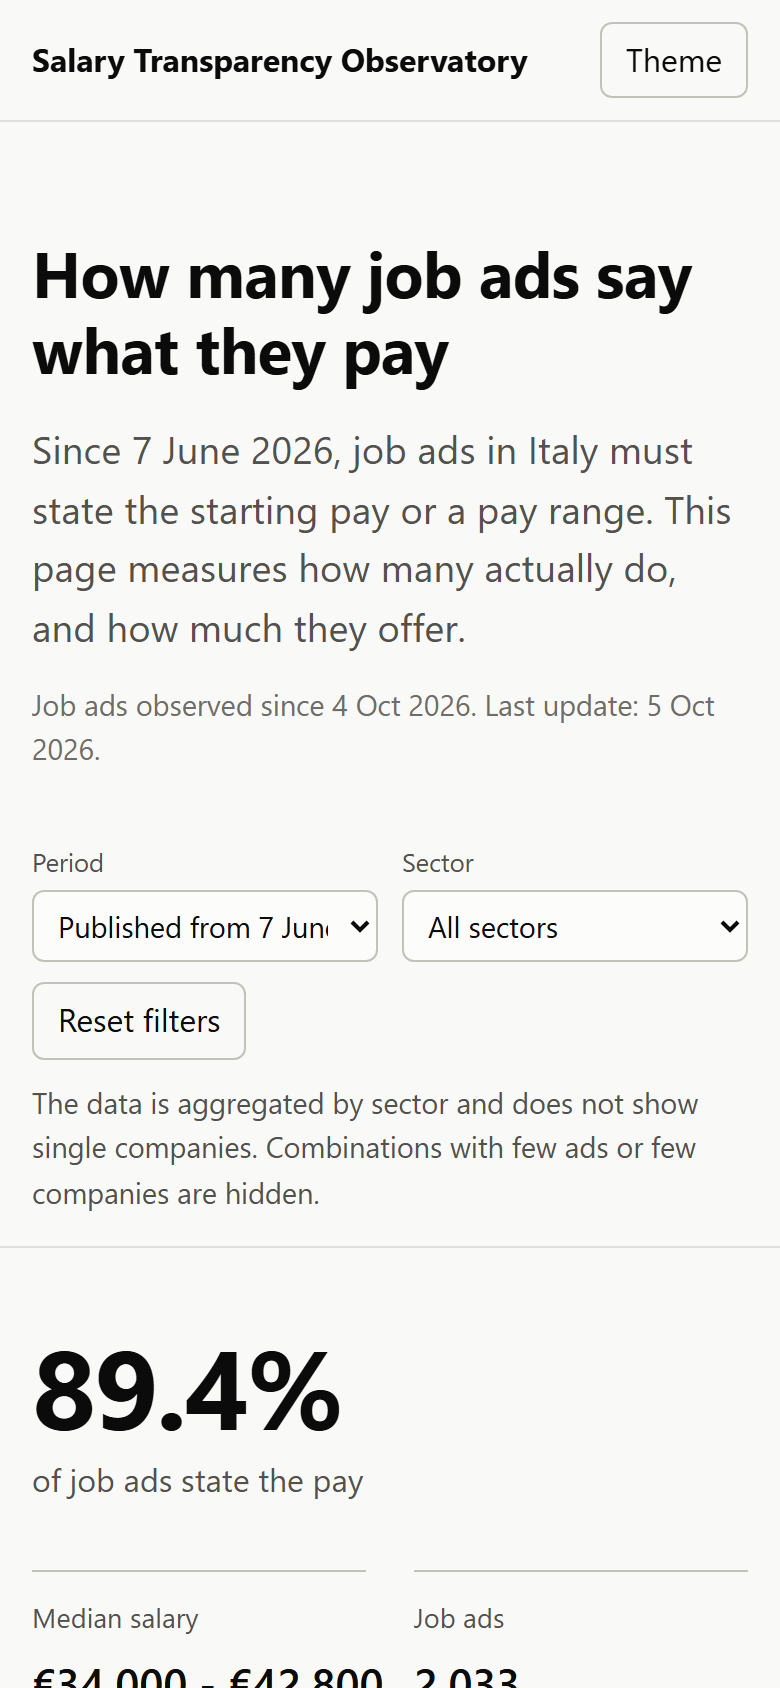
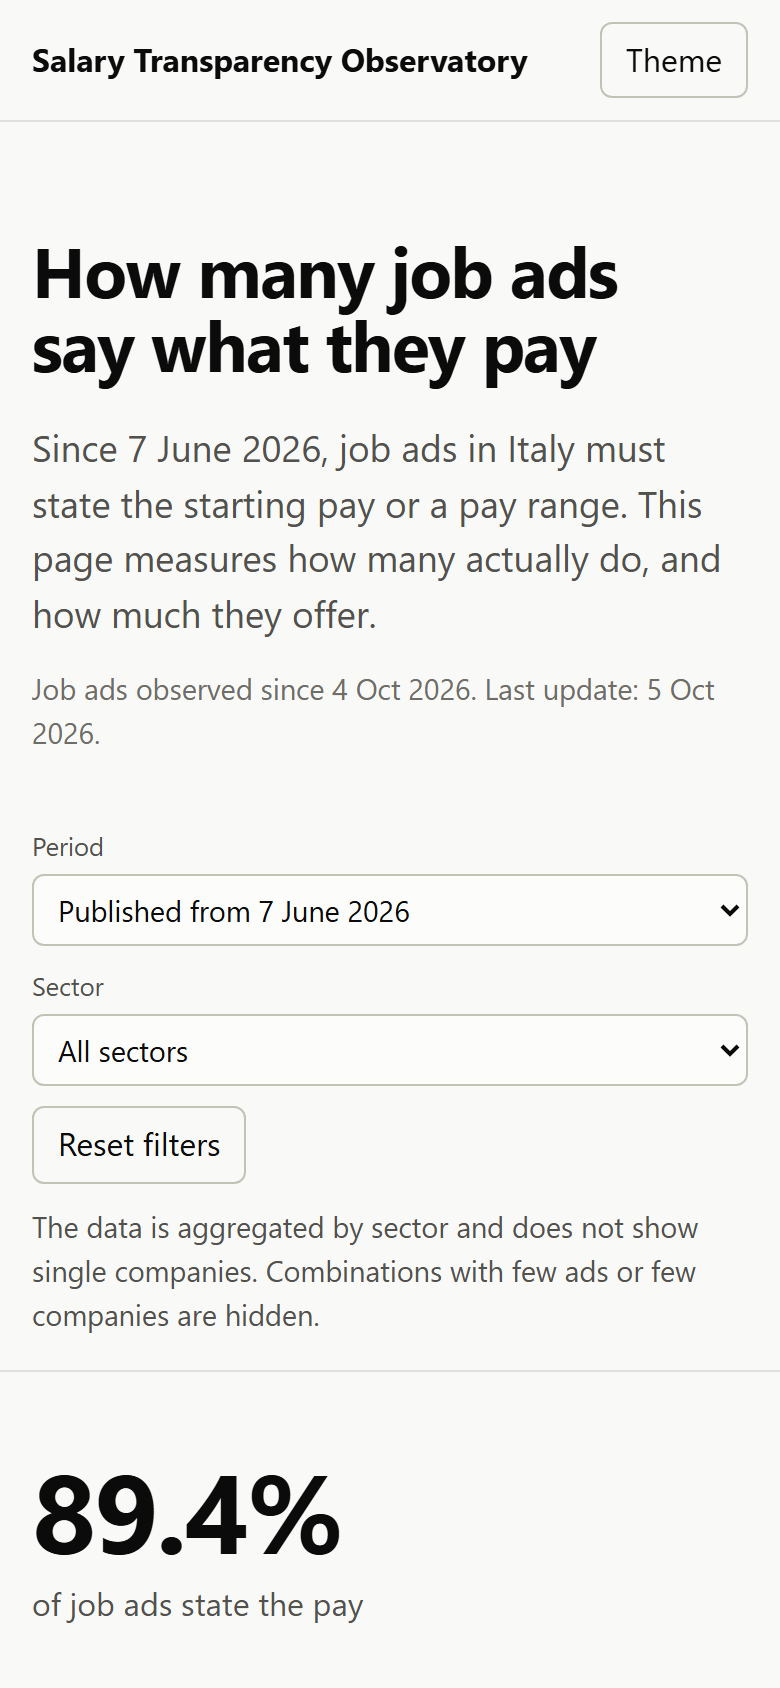
stacked charts

diff --git a/webapp/style.css b/webapp/style.css
@@ -68,7 +68,9 @@ body {
 
 a { color: var(--accent-ink); text-underline-offset: 2px; }
 h1, h2, h3 { line-height: 1.2; margin: 0; letter-spacing: -0.01em; }
-h1 { font-size: clamp(2rem, 3.6vw, 3.6rem); font-weight: 650; max-width: 18ch; }
+/* display title: tight tracking and leading; balance keeps the lines even when it wraps */
+h1 { font-size: clamp(2.2rem, 4.2vw, 4.4rem); font-weight: 680; line-height: 1.04; letter-spacing: -0.025em;
+     text-wrap: balance; }
 h2 { font-size: 1.25rem; font-weight: 620; }
 h3 { font-size: 1rem; font-weight: 620; margin-top: 1.25rem; }
 p { margin: 0; }
@@ -107,13 +109,9 @@ button:focus-visible, select:focus-visible, input:focus-visible, a:focus-visible
 
 /* intro */
 .intro { padding-top: 56px; padding-bottom: 24px; }
-.lede { margin-top: 16px; font-size: 1.2rem; color: var(--ink-2); max-width: 64ch; }
-/* wide screens: title on the left, intro text on the right, so the top uses the full width */
-@media (min-width: 1100px) {
-  .intro { display: grid; grid-template-columns: minmax(0, 1.15fr) minmax(0, 1fr); column-gap: 64px; align-items: end; }
-  .intro h1 { grid-row: span 2; }
-  .intro .lede { margin-top: 0; }
-}
+/* subtitle under the title: grows with the screen, line length capped at ~65 characters for reading */
+.lede { margin-top: 20px; font-size: clamp(1.15rem, 0.5vw + 0.95rem, 1.4rem); line-height: 1.5;
+        color: var(--ink-2); max-width: 65ch; text-wrap: pretty; }
 .stamp { margin-top: 12px; color: var(--muted); font-size: 0.9rem; }
 
 /* filters: one row above everything they filter */
@@ -128,7 +126,7 @@ button:focus-visible, select:focus-visible, input:focus-visible, a:focus-visible
 #filters input { width: 100%; max-width: none; }
 #filters input::placeholder { color: var(--muted); }
 @media (max-width: 767px) {
-  #filters label { flex: 1 1 45%; }
+  #filters label { flex: 1 1 100%; }   /* one filter per row: option text is never cut */
   #filters select { max-width: none; width: 100%; }
 }
 
@@ -157,8 +155,9 @@ button:focus-visible, select:focus-visible, input:focus-visible, a:focus-visible
 .error { color: var(--ink); background: var(--surface); border: 1px solid var(--axis); border-radius: var(--radius); }
 
 /* charts */
-.charts { display: grid; grid-template-columns: repeat(2, minmax(0, 1fr)); gap: 48px 40px; padding-bottom: 24px; }
-@media (max-width: 900px) { .charts { grid-template-columns: 1fr; } }
+/* charts stacked one under the other; every chart shares the same label column and the same
+   right gutter for the tip value, so all plot areas and axes line up vertically */
+.charts { --label-w: 15rem; --tip: 64px; display: grid; grid-template-columns: minmax(0, 1fr); gap: 64px; padding-bottom: 24px; }
 .chart { margin: 0; min-width: 0; }
 .chart figcaption p { margin-top: 4px; color: var(--ink-2); font-size: 0.9rem; max-width: 72ch; }
 .chart-body { margin-top: 16px; }
@@ -172,16 +171,17 @@ button:focus-visible, select:focus-visible, input:focus-visible, a:focus-visible
 /* horizontal bars: label | plot area | value at the tip */
 .bars { display: grid; gap: 6px; }
 .bar-row {
-  display: grid; grid-template-columns: minmax(110px, 34%) minmax(0, 1fr);
-  align-items: center; gap: 12px; border-radius: 4px; padding: 2px 0;
+  display: grid; grid-template-columns: var(--label-w) minmax(0, 1fr);
+  align-items: center; gap: 16px; border-radius: 4px; padding: 2px 0;
 }
 .bar-row:hover, .bar-row:focus-visible { background: color-mix(in srgb, var(--accent) 6%, transparent); }
-.bar-label { font-size: 0.88rem; color: var(--ink); overflow: hidden; text-overflow: ellipsis; white-space: nowrap; }
-/* the right margin holds the tip value: bars, grid and axis share the same width */
-.bar-plot { position: relative; height: 22px; display: flex; align-items: center; padding-right: 60px; }
-.bar-plot .gridlines { right: 60px; }
-.axis-bars .axis-scale { margin-right: 60px; }
-.dumb-plot { margin-right: 8px; }
+/* labels wrap instead of being cut with an ellipsis: a truncated category name is unreadable */
+.bar-label { font-size: 0.88rem; line-height: 1.25; color: var(--ink); overflow-wrap: anywhere; }
+/* the right gutter holds the tip value: bars, dumbbells, grid and axis share the same width */
+.bar-plot { position: relative; height: 22px; display: flex; align-items: center; padding-right: var(--tip); }
+.bar-plot .gridlines { right: var(--tip); }
+.axis-scale { margin-right: var(--tip); }
+.dumb-plot { margin-right: var(--tip); }
 .bar {
   height: 14px; background: var(--accent);
   border-radius: 0 4px 4px 0;            /* rounded data end, square base */
@@ -190,7 +190,7 @@ button:focus-visible, select:focus-visible, input:focus-visible, a:focus-visible
 }
 .bar-value { margin-left: 8px; font-size: 0.85rem; color: var(--ink-2); font-variant-numeric: tabular-nums; white-space: nowrap; }
 
-.axis { display: grid; grid-template-columns: minmax(110px, 34%) minmax(0, 1fr); gap: 12px; margin-top: 6px; }
+.axis { display: grid; grid-template-columns: var(--label-w) minmax(0, 1fr); gap: 16px; margin-top: 6px; }
 .axis-scale { position: relative; height: 18px; border-top: 1px solid var(--axis); }
 .axis-scale span {
   position: absolute; top: 4px; transform: translateX(-50%);

diff --git a/webapp/app.js b/webapp/app.js
@@ -153,12 +153,19 @@ function renderBars(fig, rows, { highlight = null } = {}) {
 }
 
 // dumbbell: minimum and maximum of the range (medians), two shades of the same blue
-function renderDumbbell(fig, rows) {
+// salary domain rounded to €10k, shared by the salary charts so their axes line up
+function salaryDomain(rows) {
+  rows = rows.filter((r) => r.ral_min_median != null);
+  if (!rows.length) return null;
+  return [Math.floor(Math.min(...rows.map((r) => r.ral_min_median)) / 10000) * 10000,
+          Math.ceil(Math.max(...rows.map((r) => r.ral_max_median)) / 10000) * 10000];
+}
+
+function renderDumbbell(fig, rows, domain = salaryDomain(rows)) {
   rows = rows.filter((r) => r.ral_min_median != null);
   if (!rows.length) return emptyChart(fig);
   const body = fig.querySelector(".chart-body");
-  const lo = Math.floor(Math.min(...rows.map((r) => r.ral_min_median)) / 10000) * 10000;
-  const hi = Math.ceil(Math.max(...rows.map((r) => r.ral_max_median)) / 10000) * 10000;
+  const [lo, hi] = domain;
   const step = (hi - lo) / 10000 > 6 ? 20000 : 10000;
   const ticks = [];
   for (let t = lo; t <= hi; t += step) ticks.push(t);
@@ -232,11 +239,13 @@ function update() {
   renderBars($("#chart-macro"), named(select(f.period, "all", "macro_sector"), "macro_sector").sort(byPct),
     { highlight: f.macro !== "all" ? f.macro : null });
   renderBars($("#chart-region"), named(select(f.period, f.macro, "region"), "region").sort(byPct));
-  renderDumbbell($("#chart-function"),
-    named(select(f.period, f.macro, "job_function"), "job_function").sort((a, b) => b.ral_max_median - a.ral_max_median));
-  renderDumbbell($("#chart-seniority"),
-    named(select(f.period, f.macro, "seniority").filter((r) => r.value !== "not_stated"), "seniority")
-      .sort((a, b) => SENIORITY_ORDER.indexOf(a.value) - SENIORITY_ORDER.indexOf(b.value)));
+  const byFunction = named(select(f.period, f.macro, "job_function"), "job_function")
+    .sort((a, b) => b.ral_max_median - a.ral_max_median);
+  const bySeniority = named(select(f.period, f.macro, "seniority").filter((r) => r.value !== "not_stated"), "seniority")
+    .sort((a, b) => SENIORITY_ORDER.indexOf(a.value) - SENIORITY_ORDER.indexOf(b.value));
+  const salaryScale = salaryDomain([...byFunction, ...bySeniority]);
+  renderDumbbell($("#chart-function"), byFunction, salaryScale);
+  renderDumbbell($("#chart-seniority"), bySeniority, salaryScale);
   renderBars($("#chart-contract"),
     named(select(f.period, f.macro, "contract_type").filter((r) => r.value !== "not_stated"), "contract_type").sort(byPct));
   renderBars($("#chart-period"),
